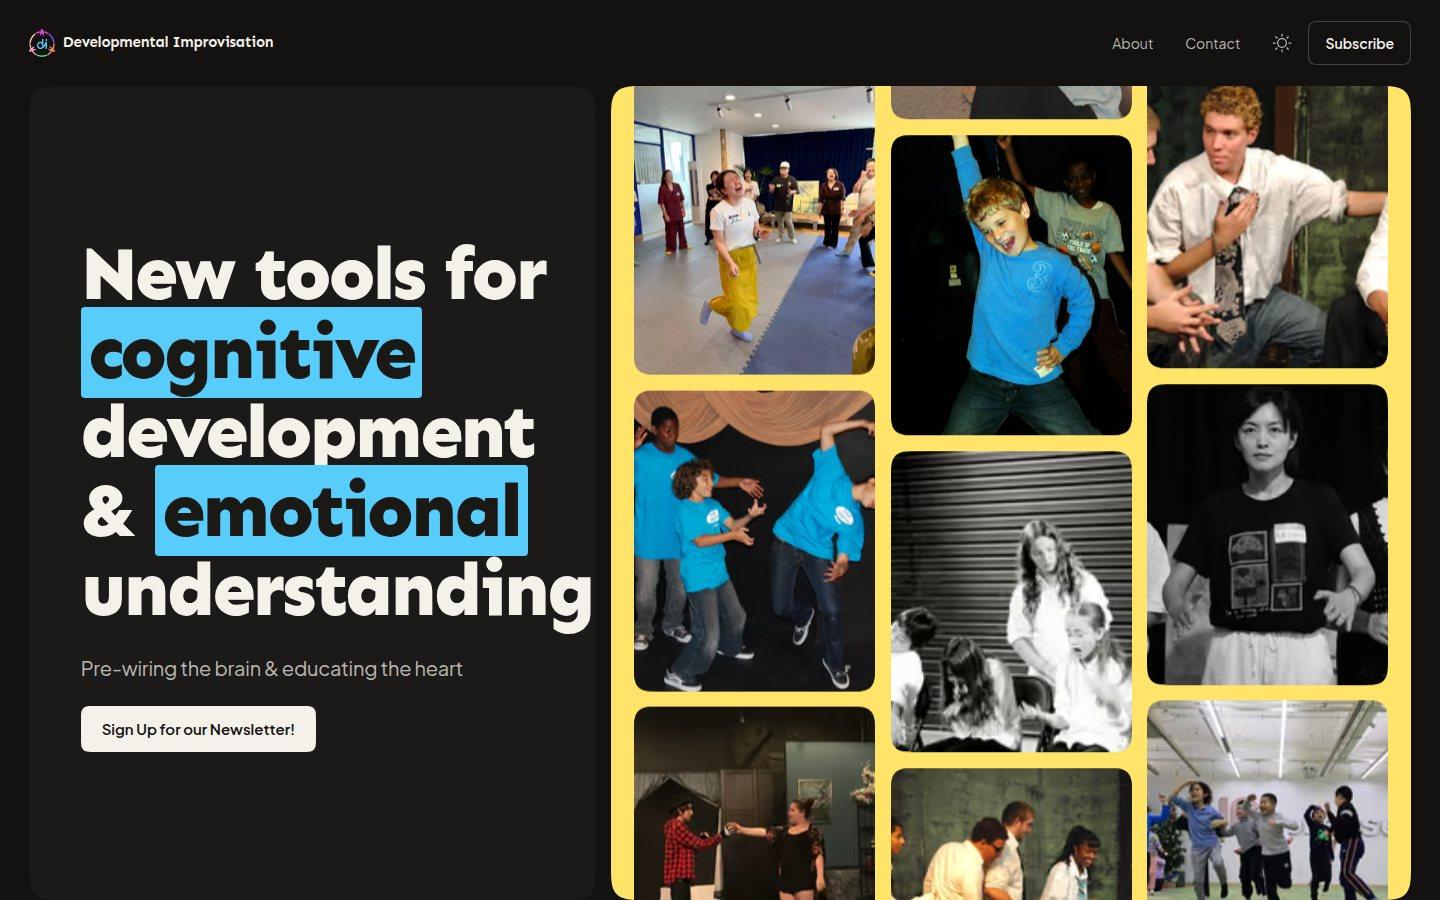
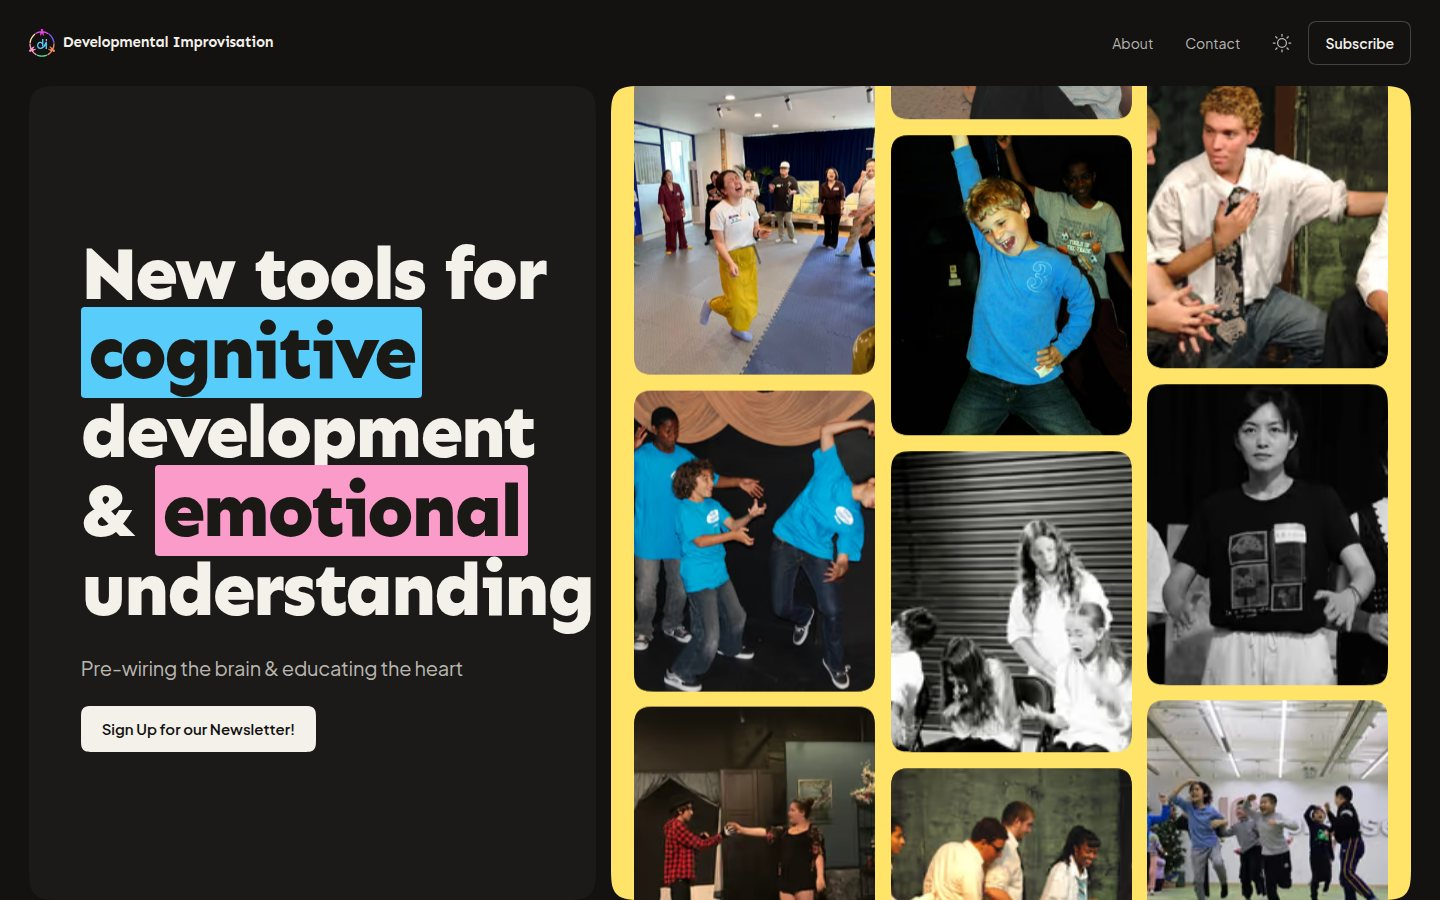
DI: the headline's second highlight takes its own hue
"emotional" is pink now, "cognitive" stays sky — the two halves of the promise
in two colours. `mark` reads --accent, which already resolves to --c-sky at the
root, so a second colour is one data-accent on the element and the ink follows
through --on-accent.

41 gate lines pass. Contrast 5.44:1 light / 5.28:1 dark, headline still 5 lines
at 1440/1024/390/320. First load measured at 413 KB desktop / 349 KB phone over
37 / 24 files.

Claude-Session: https://claude.ai/code/session_01CEtBSjUp3pkVrxd3vd7dDr

Changed region(s): [[0.0938, 0.4978, 0.375, 0.6222]]

diff --git a/di-site/styleguide.html b/di-site/styleguide.html
@@ -49,7 +49,7 @@ code { font-family: ui-monospace, Menlo, monospace; font-size: .85em; color: var
 <div class="trow"><div class="tmeta"><b>h3</b><br><span>card titles · Sen 700</span><br><code>.t-h3</code></div><div class="t-h3">Creativity in motion creates knowledge!</div></div>
 <div class="trow"><div class="tmeta"><b>lead</b><br><span>subtitle, quotes · Jakarta 400</span><br><code>.t-lead</code></div><div class="t-lead">Pre-wiring the brain &amp; educating the heart</div></div>
 <div class="trow"><div class="tmeta"><b>body</b><br><span>paragraphs · Jakarta 400</span><br><code>.t-body</code></div><div class="t-body">Developmental Improvisation is a new, revolutionary tool for teaching cognitive development and social/emotional understanding using the art of improvisation designed specifically for the classroom.</div></div>
-<div class="trow"><div class="tmeta"><b>mark</b><br><span>the headline's highlight · sky, the selection's own colour</span><br><code>&lt;mark&gt;</code></div><div class="t-h3">New tools for <mark>cognitive</mark> development</div></div>
+<div class="trow"><div class="tmeta"><b>mark</b><br><span>the headline's highlight · sky, the selection's own colour</span><br><code>&lt;mark&gt;</code></div><div class="t-h3">New tools for <mark>cognitive</mark> development &amp; <mark data-accent="pink">emotional</mark> understanding</div></div>
 <div class="trow"><div class="tmeta"><b>label</b><br><span>section labels · Jakarta 600, uppercase</span><br><code>.label</code></div><div class="label">Testimonials</div></div>
 <div class="trow"><div class="tmeta"><b>caption</b><br><span>captions, © · 400</span><br><code>.t-caption</code></div><div class="t-caption">© 2026 Developmental Improvisation</div></div>
 <h2 class="t-h2" id="space">Space</h2>

diff --git a/di-site/css/base.css b/di-site/css/base.css
@@ -26,10 +26,12 @@ ul { margin: 0; padding: 0; list-style: none; }
 .is-theming, .is-theming * { transition: background-color 240ms linear, border-color 240ms linear, color 240ms linear !important; }
 
 /* The highlight. Jayden selected a word in the headline by accident and asked for it as a design element, so it is the
-   same colour the selection already uses — sky, the monogram's own — and it takes the ink that hue takes. `clone` so a
+   colour the selection already uses — sky, the monogram's own, which is what `--accent` already resolves to at the root
+   — and it takes the ink that hue takes. A second highlight names its own hue with `data-accent`, so the two words are
+   the two halves of the promise in two colours: **cognitive** in the mark's sky, **emotional** in pink. `clone` so a
    highlight that wraps gets its corner on both lines instead of one long slab. It belongs to the headline and nowhere
    else: two words, and the rest of the page has no coloured type at all. */
-mark { background: var(--c-sky); color: var(--on-accent); padding: 0 0.1em; border-radius: var(--r-2xs); box-decoration-break: clone; -webkit-box-decoration-break: clone; }
+mark { background: var(--accent); color: var(--on-accent); padding: 0 0.1em; border-radius: var(--r-2xs); box-decoration-break: clone; -webkit-box-decoration-break: clone; }
 
 /* Type roles */
 .t-display { font-family: var(--font-display); font-size: var(--fs-display); line-height: var(--lh-display); letter-spacing: var(--ls-display); font-weight: 800; color: var(--ink); }

diff --git a/di-site/index.html b/di-site/index.html
@@ -43,7 +43,7 @@
   <section class="hero" id="top" aria-labelledby="heroTitle">
     <div class="container grid hero__grid">
       <div class="hero__head">
-        <h1 class="hero__title" id="heroTitle">New tools for <mark>cognitive</mark> development &amp; <mark>emotional</mark> understanding</h1>
+        <h1 class="hero__title" id="heroTitle">New tools for <mark>cognitive</mark> development &amp; <mark data-accent="pink">emotional</mark> understanding</h1>
         <div class="hero__meta">
           <p class="hero__sub">Pre-wiring the brain &amp; educating the heart</p>
         </div>

diff --git a/di-site/tools/build-styleguide.py b/di-site/tools/build-styleguide.py
@@ -84,7 +84,7 @@ code {{ font-family: ui-monospace, Menlo, monospace; font-size: .85em; color: va
 <div class="trow"><div class="tmeta"><b>h3</b><br><span>card titles · Sen 700</span><br><code>.t-h3</code></div><div class="t-h3">Creativity in motion creates knowledge!</div></div>
 <div class="trow"><div class="tmeta"><b>lead</b><br><span>subtitle, quotes · Jakarta 400</span><br><code>.t-lead</code></div><div class="t-lead">Pre-wiring the brain &amp; educating the heart</div></div>
 <div class="trow"><div class="tmeta"><b>body</b><br><span>paragraphs · Jakarta 400</span><br><code>.t-body</code></div><div class="t-body">Developmental Improvisation is a new, revolutionary tool for teaching cognitive development and social/emotional understanding using the art of improvisation designed specifically for the classroom.</div></div>
-<div class="trow"><div class="tmeta"><b>mark</b><br><span>the headline's highlight · sky, the selection's own colour</span><br><code>&lt;mark&gt;</code></div><div class="t-h3">New tools for <mark>cognitive</mark> development</div></div>
+<div class="trow"><div class="tmeta"><b>mark</b><br><span>the headline's highlight · sky, the selection's own colour</span><br><code>&lt;mark&gt;</code></div><div class="t-h3">New tools for <mark>cognitive</mark> development &amp; <mark data-accent="pink">emotional</mark> understanding</div></div>
 <div class="trow"><div class="tmeta"><b>label</b><br><span>section labels · Jakarta 600, uppercase</span><br><code>.label</code></div><div class="label">Testimonials</div></div>
 <div class="trow"><div class="tmeta"><b>caption</b><br><span>captions, © · 400</span><br><code>.t-caption</code></div><div class="t-caption">© 2026 Developmental Improvisation</div></div>
 <h2 class="t-h2" id="space">Space</h2>

diff --git a/di-site/tools/build-html.py b/di-site/tools/build-html.py
@@ -188,7 +188,7 @@ page=f'''<!DOCTYPE html>
   <section class="hero" id="top" aria-labelledby="heroTitle">
     <div class="container grid hero__grid">
       <div class="hero__head">
-        <h1 class="hero__title" id="heroTitle">New tools for <mark>cognitive</mark> development &amp; <mark>emotional</mark> understanding</h1>
+        <h1 class="hero__title" id="heroTitle">New tools for <mark>cognitive</mark> development &amp; <mark data-accent="pink">emotional</mark> understanding</h1>
         <div class="hero__meta">
           <p class="hero__sub">Pre-wiring the brain &amp; educating the heart</p>
         </div>

diff --git a/di-site/docs/BUILD-LOG.md b/di-site/docs/BUILD-LOG.md
@@ -24,9 +24,9 @@ Jayden's twelfth pass, in five messages: card 02 "doesnt act like the rest of th
 
 **And the header lost its container.** *"I would rather it be a clean header though not in a container or anything just minimal and clean."* So: no tiles, no bar, no glass — the wordmark and the controls sit directly on the page at the field's gutter, and the header **scrolls away with the page**. Bare type over a photograph is unreadable, and the honest answer to that was not to put a surface back under it but to stop needing one: Subscribe and Contact are both at the foot of the page. The "Read more" pill now arrives with the hue as well, so a resting card is chips, a title, a summary and a picture.
 
-**Four more, on looking at it again.** The menu **stays on a phone** — fixed, with the lightest surface that can carry type over a photograph once there is something under it, because Menu is the only route to the links and Subscribe once the page has moved. The **whole card** takes the hue now, not just its head: filling the head alone left a seam at the photograph's top edge. Two words of the headline sit in a `<mark>` in sky, which Jayden found by accidentally selecting one. And the ink rebind had to move back onto the head — on the card, the "Read more" pill inherited `--on-accent` over `--bg-overlay` and rendered as a black blob.
+**Four more, on looking at it again.** The menu **stays on a phone** — fixed, with the lightest surface that can carry type over a photograph once there is something under it, because Menu is the only route to the links and Subscribe once the page has moved. The **whole card** takes the hue now, not just its head: filling the head alone left a seam at the photograph's top edge. Two words of the headline sit in a `<mark>` — **cognitive** in sky, **emotional** in pink — which Jayden found by accidentally selecting one. The second names its hue with `data-accent`, so the mark rule is one line and the ink follows. And the ink rebind had to move back onto the head — on the card, the "Read more" pill inherited `--on-accent` over `--bg-overlay` and rendered as a black blob.
 
-**Measured after v12.** 41 gate lines pass, including a new `reader.mjs` and its self-test.
+**Measured after v12.** 41 gate lines pass, including a new `reader.mjs` and its self-test. First load **413 KB desktop / 349 KB phone** over 37 / 24 files: 95 document, 71 fonts, 48 CSS, 18 JS, 179 / 115 images.
 
 ## v11 (2026-09-06) — the four things between 8.5 and 9
 Jayden asked what would take the site to a 9 without real testimonials, then said build all four.

diff --git a/di-site/docs/design-system.md b/di-site/docs/design-system.md
@@ -54,7 +54,7 @@ Violet is the one hue whose ink changes with the theme, so it goes through `--on
 
 **Colour rests on a panel; on a card it is a state.** Two surfaces carry a hue at rest and they are both structure: the hero's photograph panel and the closing field. Everywhere else the hue arrives on interaction — a card's head fills under the pointer and on focus, and the reader opens on that same hue — or it is a chip rather than a field, as on the testimonials, where the hue is on the person and not on the quote. Four coloured card heads under the hero and three coloured testimonial cards were each, in turn, the loudest thing on the page; the brief is premium first. **Where there is no hover there is no state**: under `@media (hover: none)` the card's hue is simply its resting colour, because a touch screen would otherwise never see the section's colour at all.
 
-**One highlight, in the headline, and nowhere else.** Two words of the h1 sit in a `<mark>` in sky — the monogram's own colour, the same one `::selection` already uses. Jayden selected a word by accident, liked it, and asked for it; `box-decoration-break: clone` so a highlight that wraps gets its corner on both lines. It is the only coloured type on the site.
+**Two highlights, in the headline, and nowhere else.** The h1's two payload words sit in `<mark>`: **cognitive** in sky — the monogram's own colour, which is what `--accent` already resolves to at the root, and the same one `::selection` uses — and **emotional** in pink, which names its hue with `data-accent` and so picks up the right `--on-accent` automatically. Two halves of the promise, two colours. Jayden found this by accidentally selecting a word; `box-decoration-break: clone` so a highlight that wraps gets its corner on both lines. It is the only coloured type on the site.
 
 No hue as a border. No coloured dot before a label — that was removed.
 

diff --git a/di-site/docs/design-system.notion.md b/di-site/docs/design-system.notion.md
@@ -55,7 +55,7 @@ Violet is the one hue whose ink changes with the theme, so it goes through `--on
 
 **Colour rests on a panel; on a card it is a state.** Two surfaces carry a hue at rest and they are both structure: the hero's photograph panel and the closing field. Everywhere else the hue arrives on interaction — a card's head fills under the pointer and on focus, and the reader opens on that same hue — or it is a chip rather than a field, as on the testimonials, where the hue is on the person and not on the quote. Four coloured card heads under the hero and three coloured testimonial cards were each, in turn, the loudest thing on the page; the brief is premium first. **Where there is no hover there is no state**: under `@media (hover: none)` the card's hue is simply its resting colour, because a touch screen would otherwise never see the section's colour at all.
 
-**One highlight, in the headline, and nowhere else.** Two words of the h1 sit in a `<mark>` in sky — the monogram's own colour, the same one `::selection` already uses. Jayden selected a word by accident, liked it, and asked for it; `box-decoration-break: clone` so a highlight that wraps gets its corner on both lines. It is the only coloured type on the site.
+**Two highlights, in the headline, and nowhere else.** The h1's two payload words sit in `<mark>`: **cognitive** in sky — the monogram's own colour, which is what `--accent` already resolves to at the root, and the same one `::selection` uses — and **emotional** in pink, which names its hue with `data-accent` and so picks up the right `--on-accent` automatically. Two halves of the promise, two colours. Jayden found this by accidentally selecting a word; `box-decoration-break: clone` so a highlight that wraps gets its corner on both lines. It is the only coloured type on the site.
 
 No hue as a border. No coloured dot before a label — that was removed.
 

diff --git a/docs/developmental-improvisation/BUILD-PROMPT.md b/docs/developmental-improvisation/BUILD-PROMPT.md
@@ -101,7 +101,8 @@ testimonials. Under `@media (hover: none)` a card's hue is its resting colour: w
 state, and a touch screen would otherwise never see it. Jayden, twice: the colour must not be distracting, and the site
 is premium first.
 
-No gradients anywhere. No coloured text. No hue as a border. A hue is never a 12px frame drawn round a photograph —
+No gradients anywhere. No hue as a border. The only coloured type on the site is the headline's two `<mark>`s —
+**cognitive** in sky, **emotional** in pink — and `mark` reads `--accent`, so a second colour is one `data-accent`. A hue is never a 12px frame drawn round a photograph —
 that was built once and read as a neon outline, not as a panel. Colour is spare: a panel, a card head, a field.
 
 ### 3.5 One shape for photographs
